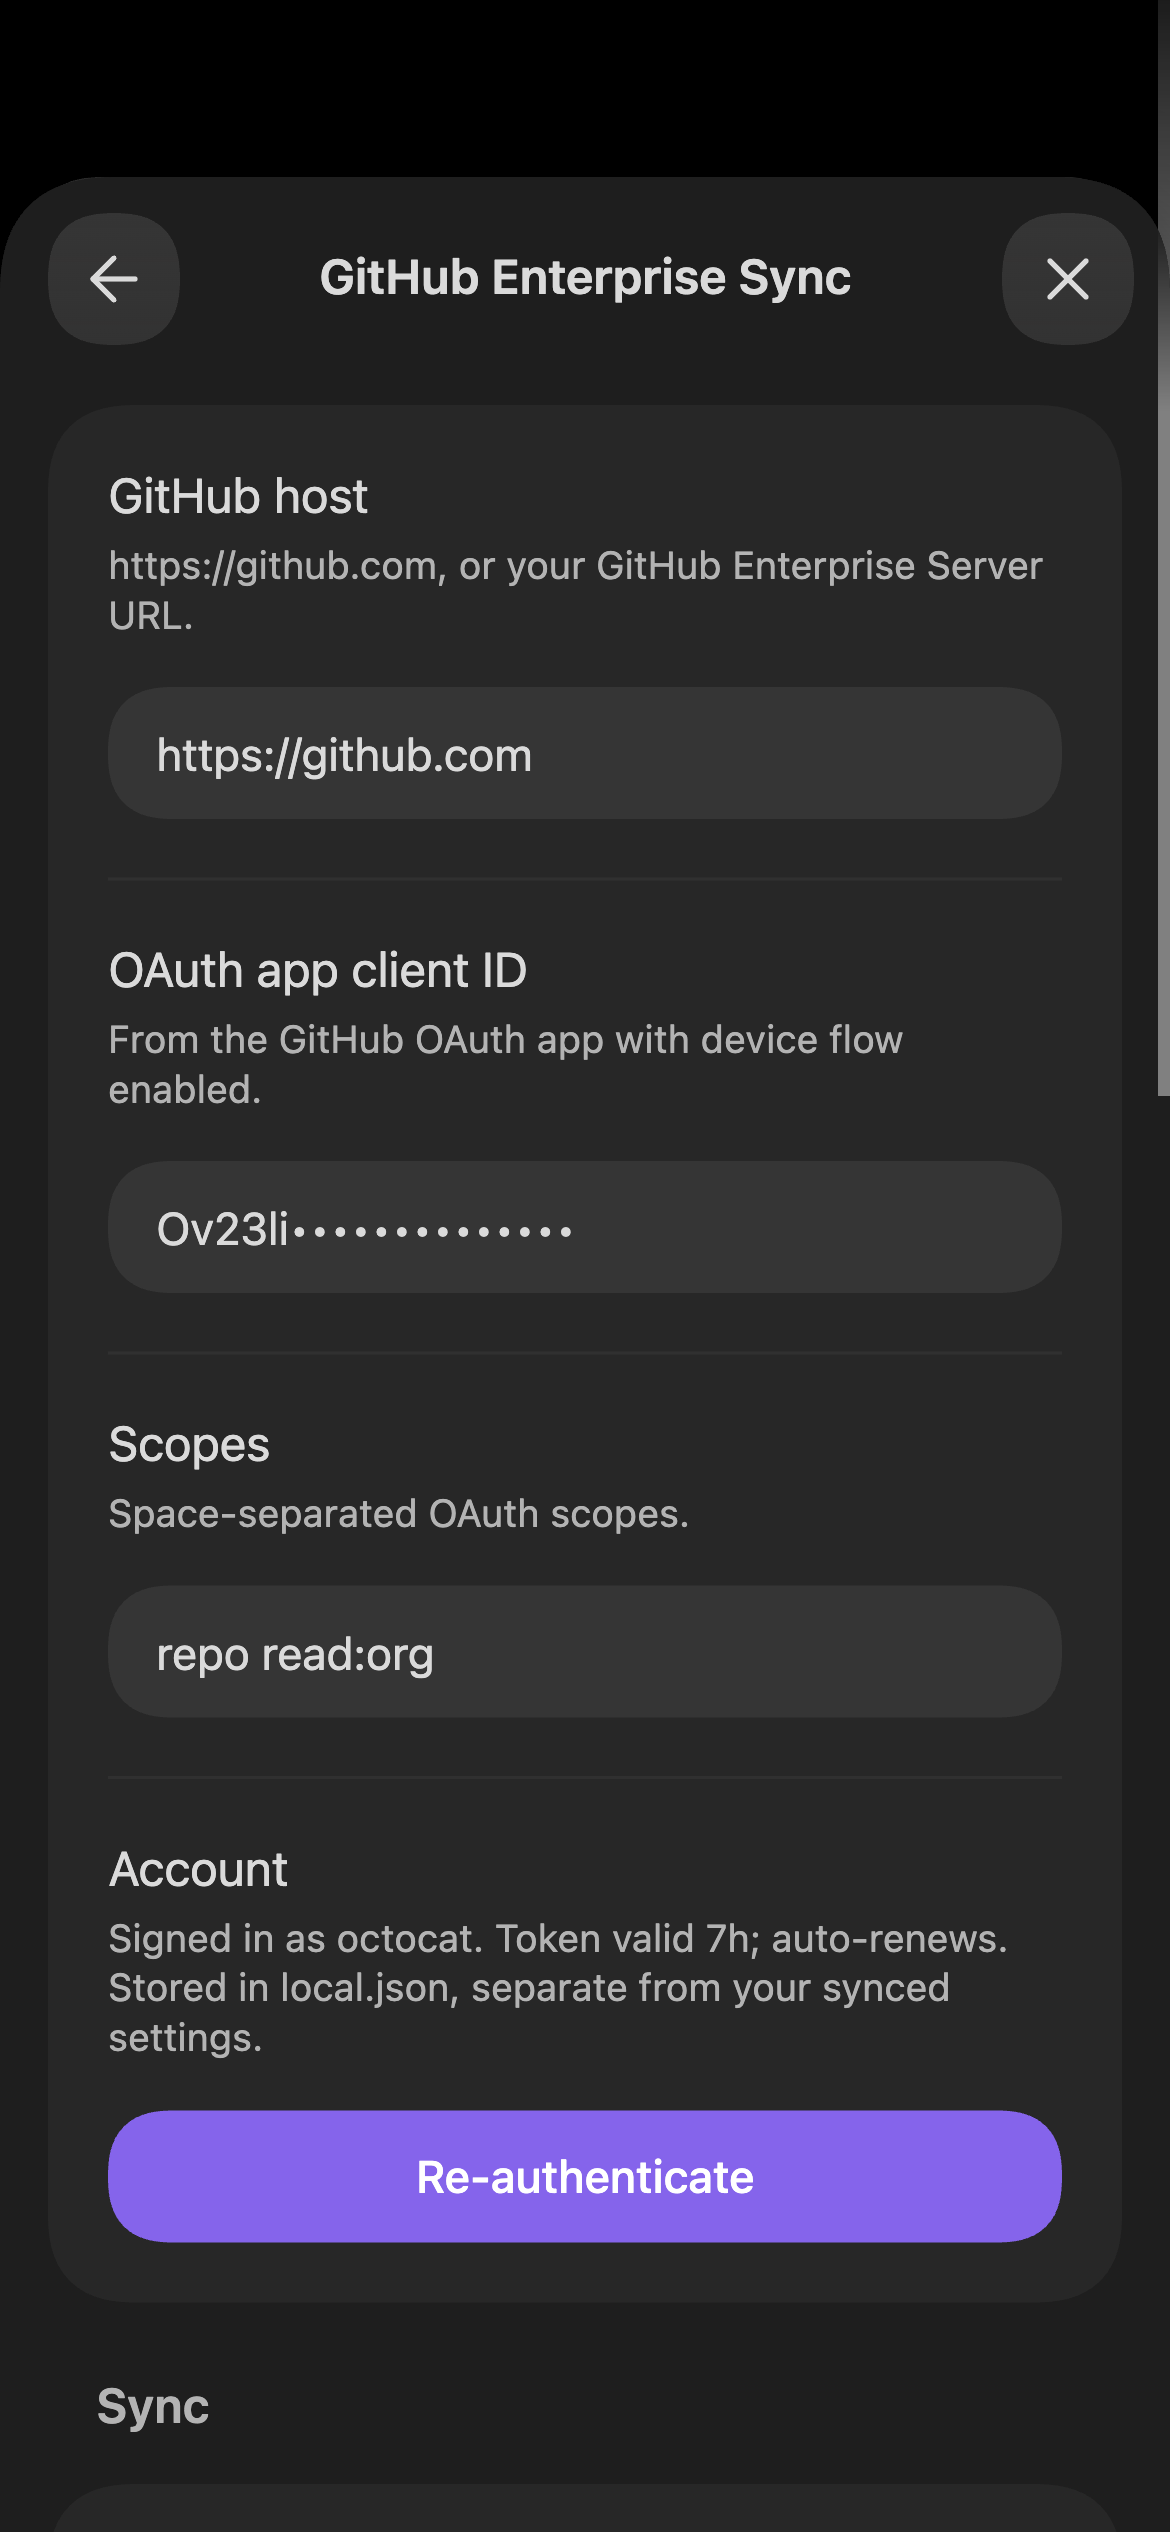
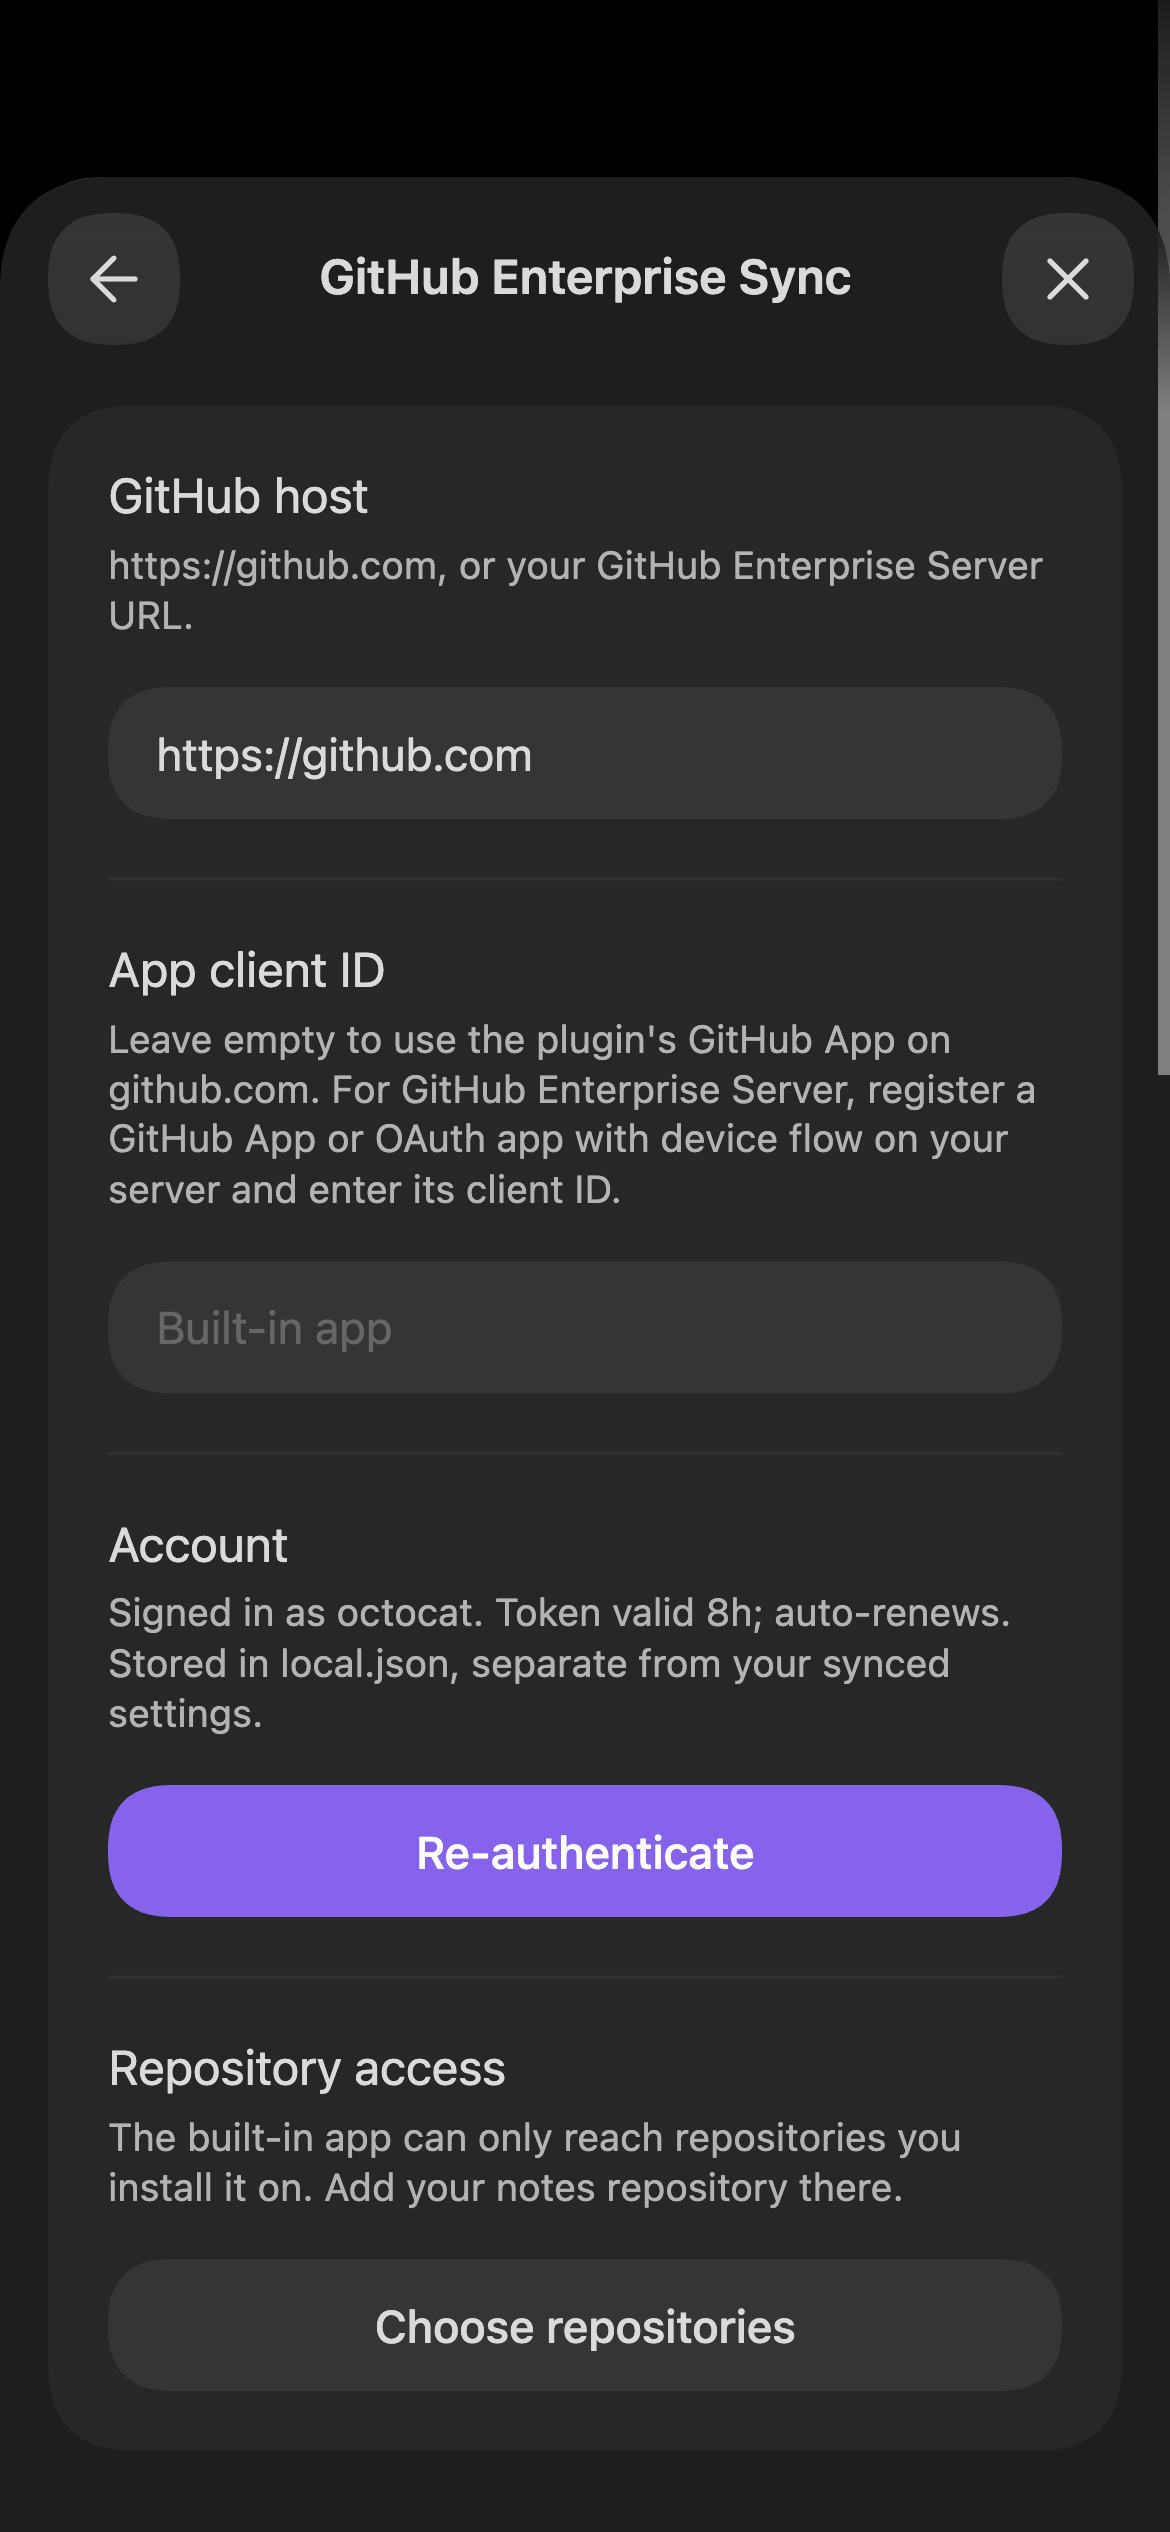
Sign in through the plugin's own GitHub App on github.com
Users on github.com no longer register an app: with no client ID set, sign-in
uses the plugin's GitHub App (Obsidian GitHub Enterprise Sync), which has
Contents read/write only and reaches only the repositories it's installed on.
The device flow needs no client secret, so shipping the client ID is safe.

- Settings: "App client ID" is optional on github.com and required on
  Enterprise Server, where a github.com app doesn't exist. Scopes only show
  for OAuth apps; a "Repository access" row links to the app's install page.
- A 404, or a 403 "not accessible by integration", from a GitHub App token
  now says the app isn't installed on the repository, with an install link
  for the built-in app, instead of a bare API error.
- The issuing client ID is stored with the tokens, so refresh keeps working
  if the setting changes later. Existing sign-ins keep their configured app.
- README setup rewritten for both cases; screenshots regenerated.

diff --git a/src/main.ts b/src/main.ts
@@ -8,9 +8,17 @@ import {
 	Setting,
 	SettingDefinitionItem,
 } from "obsidian";
-import { AccessTokenResponse, GitHubHost, hostFromWebBase, refreshAccessToken } from "./auth";
+import {
+	AccessTokenResponse,
+	DEFAULT_APP,
+	GitHubHost,
+	hostFromWebBase,
+	isGitHubApp,
+	refreshAccessToken,
+	resolveClientId,
+} from "./auth";
 import { DeviceFlowModal } from "./deviceFlowModal";
-import { GitHubClient } from "./github";
+import { GitHubClient, errorStatus } from "./github";
 import { SyncEngine, SyncReport } from "./sync";
 import { DEFAULT_LOCAL, LOCAL_FILE, LocalState, loadLocalState, saveLocalState } from "./storage";
 
@@ -166,21 +174,32 @@ export default class GitHubEnterpriseSyncPlugin extends Plugin {
 		return hostFromWebBase(this.settings.githubWebBase);
 	}
 
+	/** The app to sign in with: the configured client ID, else the built-in app on github.com. */
+	get clientId(): string {
+		return resolveClientId(this.settings.clientId, this.host);
+	}
+
 	signIn() {
-		if (!this.settings.clientId) {
-			new Notice("Set the OAuth app client ID in settings first.");
+		const clientId = this.clientId;
+		if (!clientId) {
+			new Notice(
+				"GitHub Enterprise Server needs its own app: register one with device flow on your server, then enter its client ID in settings.",
+				10000,
+			);
 			return;
 		}
 		new DeviceFlowModal(
 			this.app,
 			this.host,
-			this.settings.clientId,
-			this.settings.scope,
-			(token) => void this.onSignedIn(token),
+			clientId,
+			// GitHub Apps take their permissions from the app, not from scopes.
+			isGitHubApp(clientId) ? "" : this.settings.scope,
+			(token) => void this.onSignedIn(token, clientId),
 		).open();
 	}
 
-	private async onSignedIn(token: AccessTokenResponse) {
+	private async onSignedIn(token: AccessTokenResponse, clientId: string) {
+		this.local.clientId = clientId;
 		await this.storeToken(token);
 		// Redraw before verifying: verification hits the network, and the
 		// button should already read "Re-authenticate" by then.
@@ -216,7 +235,8 @@ export default class GitHubEnterpriseSyncPlugin extends Plugin {
 
 		if (!refreshToken) return "";
 		try {
-			const renewed = await refreshAccessToken(this.host, this.settings.clientId, refreshToken);
+			const clientId = this.local.clientId || this.clientId;
+			const renewed = await refreshAccessToken(this.host, clientId, refreshToken);
 			await this.storeToken(renewed);
 			return renewed.access_token;
 		} catch (err) {
@@ -262,10 +282,40 @@ export default class GitHubEnterpriseSyncPlugin extends Plugin {
 				`Read ${firstFile.path} — ${content.length} chars. ${entries.length} entries at ${dir || "root"}.`,
 			);
 		} catch (err) {
-			const message = err instanceof Error ? err.message : String(err);
 			console.error("[github-enterprise-sync]", err);
-			new Notice(`Verification failed: ${message}`, 10000);
+			this.notifyFailure("Verification failed", err);
 		}
+	}
+
+	/**
+	 * Report a failed request. From a GitHub App token, a 404 almost always
+	 * means the app isn't installed on the repository (GitHub hides private
+	 * repos the token can't reach), and so does a 403 "not accessible by
+	 * integration" (a public repo: readable, but not writable). Say so, with a
+	 * link when it's the built-in app.
+	 */
+	private notifyFailure(prefix: string, err: unknown) {
+		const message = err instanceof Error ? err.message : String(err);
+		const issuer = this.local.clientId || this.clientId;
+		const status = errorStatus(err);
+		const notInstalled =
+			status === 404 || (status === 403 && /not accessible by integration/i.test(message));
+		if (!notInstalled || !isGitHubApp(issuer)) {
+			new Notice(`${prefix}: ${message}`, 10000);
+			return;
+		}
+		const repo = this.settings.syncRepo || "the repository";
+		new Notice(
+			createFragment((f) => {
+				f.appendText(`${prefix}: can't see ${repo}. The app can only reach repositories it's installed on. `);
+				if (issuer === DEFAULT_APP.clientId) {
+					f.createEl("a", { text: "Choose repositories", href: DEFAULT_APP.installUrl });
+				} else {
+					f.appendText("Ask the app's owner to install it on this repository.");
+				}
+			}),
+			15000,
+		);
 	}
 
 	async loadSettings() {
@@ -350,11 +400,10 @@ export default class GitHubEnterpriseSyncPlugin extends Plugin {
 				}
 			}
 		} catch (err) {
-			const message = err instanceof Error ? err.message : String(err);
 			console.error("[github-enterprise-sync] sync failed", err);
 			// Failures are always surfaced — a silently broken sync is worse
 			// than a noisy one.
-			new Notice(`GitHub Enterprise Sync failed: ${message}`, 10000);
+			this.notifyFailure("GitHub Enterprise Sync failed", err);
 		} finally {
 			this.syncing = false;
 			this.renderStatusBar();
@@ -528,13 +577,17 @@ class GitHubEnterpriseSyncSettingTab extends PluginSettingTab {
 				},
 			},
 			{
-				name: "OAuth app client ID",
-				desc: "From the GitHub OAuth app with device flow enabled.",
-				control: { type: "text", key: "clientId", placeholder: "Iv1.xxxxxxxxxxxx" },
+				name: "App client ID",
+				desc:
+					"Leave empty to use the plugin's GitHub App on github.com. For GitHub Enterprise Server, " +
+					"register a GitHub App or OAuth app with device flow on your server and enter its client ID.",
+				aliases: ["oauth", "github app"],
+				control: { type: "text", key: "clientId", placeholder: "Built-in app" },
 			},
 			{
 				name: "Scopes",
-				desc: "Space-separated OAuth scopes.",
+				desc: "Space-separated OAuth scopes. Only OAuth apps use these.",
+				visible: () => !isGitHubApp(this.plugin.clientId),
 				control: { type: "text", key: "scope" },
 			},
 			{
@@ -544,6 +597,16 @@ class GitHubEnterpriseSyncSettingTab extends PluginSettingTab {
 					this.accountRow = setting;
 					setting.addButton((b) => b.setCta().onClick(() => this.plugin.signIn()));
 					this.renderAccount();
+				},
+			},
+			{
+				name: "Repository access",
+				desc: "The built-in app can only reach repositories you install it on. Add your notes repository there.",
+				visible: () => this.plugin.clientId === DEFAULT_APP.clientId,
+				render: (setting) => {
+					setting.addButton((b) =>
+						b.setButtonText("Choose repositories").onClick(() => window.open(DEFAULT_APP.installUrl)),
+					);
 				},
 			},
 			{
@@ -644,8 +707,9 @@ class GitHubEnterpriseSyncSettingTab extends PluginSettingTab {
 		}
 		await this.plugin.saveSettings();
 		if (key === "autoSyncEnabled" || key === "autoSyncMinutes") this.plugin.restartAutoSyncTimer();
-		// "Sync interval" is only shown while periodic sync is on.
-		if (key === "autoSyncEnabled") this.refreshDomState();
+		// Rows that depend on these: "Sync interval" on periodic sync; "Scopes"
+		// and "Repository access" on which app signs in.
+		if (key === "autoSyncEnabled" || key === "githubWebBase" || key === "clientId") this.refreshDomState();
 	}
 
 	/** Rewrite the state-driven rows, if they're on screen. */

diff --git a/src/auth.ts b/src/auth.ts
@@ -17,6 +17,38 @@ export function hostFromWebBase(webBase: string): GitHubHost {
 	};
 }
 
+/**
+ * The plugin's own GitHub App on github.com, used when no client ID is set, so
+ * github.com users don't have to register an app of their own. The device flow
+ * needs no client secret, so a client ID is public by design.
+ */
+export const DEFAULT_APP = {
+	clientId: "Iv23licEZx8RvafEllsg",
+	installUrl: "https://github.com/apps/obsidian-github-enterprise-sync/installations/new",
+};
+
+export function isGitHubDotCom(host: GitHubHost): boolean {
+	return host.apiBase === "https://api.github.com";
+}
+
+/**
+ * The client ID to sign in with: the configured one, else the built-in app on
+ * github.com. "" on GitHub Enterprise Server with nothing configured — an app
+ * registered on github.com doesn't exist there.
+ */
+export function resolveClientId(configured: string, host: GitHubHost): string {
+	return configured.trim() || (isGitHubDotCom(host) ? DEFAULT_APP.clientId : "");
+}
+
+/**
+ * GitHub App client IDs start with "Iv"; OAuth apps' with "Ov" (or are older
+ * hex IDs). The difference matters to users: a GitHub App ignores scopes and
+ * only reaches repositories it has been installed on.
+ */
+export function isGitHubApp(clientId: string): boolean {
+	return clientId.startsWith("Iv");
+}
+
 export interface DeviceCodeResponse {
 	device_code: string;
 	user_code: string;

diff --git a/src/storage.ts b/src/storage.ts
@@ -21,6 +21,12 @@ export interface LocalState {
 	accessTokenExpiresAt: number;
 	refreshToken: string;
 	refreshTokenExpiresAt: number;
+	/**
+	 * The app that issued the tokens. A refresh has to go to the same client ID,
+	 * even if the settings have changed since. "" for tokens stored before this
+	 * was recorded.
+	 */
+	clientId: string;
 	/** Vault contents as of the last successful sync. */
 	syncState: SyncState | null;
 	/**
@@ -36,6 +42,7 @@ export const DEFAULT_LOCAL: LocalState = {
 	accessTokenExpiresAt: 0,
 	refreshToken: "",
 	refreshTokenExpiresAt: 0,
+	clientId: "",
 	syncState: null,
 	deviceLabel: "",
 };

diff --git a/README.md b/README.md
@@ -37,14 +37,16 @@ finish. Any SSO session already present in that browser is reused.
 
 There is no embedded web view anywhere in this codebase.
 
-If the OAuth app has expiring user tokens enabled, the device flow returns an
+If the app issues expiring user tokens (GitHub Apps do by default), the device flow returns an
 access token valid ~8 hours plus a refresh token valid ~6 months. Every API
 call goes through `validAccessToken()`, which exchanges the refresh token when
 the access token is within five minutes of expiry. GitHub **rotates the refresh
 token on each use**, so both halves of the response are persisted together —
 dropping the new refresh token would strand the plugin at the next renewal.
 Once the refresh token itself lapses, you sign in again. With non-expiring
-tokens, `expires_in` is absent and the refresh path is simply never taken.
+tokens, `expires_in` is absent and the refresh path is simply never taken. The
+refresh always goes to the app that issued the token, so changing **App client
+ID** later doesn't break renewal of an existing sign-in.
 
 ### Incremental sync
 
@@ -141,8 +143,10 @@ configure** — github.com or your own GitHub Enterprise Server. It needs that
 connection to sign you in and to read and write the repository you sync with.
 
 - **Account required.** You need a GitHub (or GitHub Enterprise) account with
-  access to the repository, plus a GitHub OAuth app with device flow enabled
-  (see [Setup](#setup)).
+  access to the repository. On github.com, sign-in goes through the plugin's
+  GitHub App, [Obsidian GitHub Enterprise Sync](https://github.com/apps/obsidian-github-enterprise-sync),
+  which can only reach the repositories you install it on. On Enterprise Server
+  you use an app registered there (see [Setup](#setup)).
 - **What is sent.** OAuth requests to `<host>/login/device/code` and
   `<host>/login/oauth/access_token`, and GitHub REST API requests to
   `api.github.com` (or `<host>/api/v3`) that read and write the configured
@@ -158,25 +162,48 @@ plugin never sees your password.
 
 ## Setup
 
-Register a GitHub OAuth app with **"Enable Device Flow"** checked (Settings →
-Developer settings → OAuth Apps). No callback URL is needed for this flow.
+### github.com
 
-Then in Obsidian: **Settings → GitHub Enterprise Sync**
+1. In Obsidian, open **Settings → GitHub Enterprise Sync** and set
+   **Repository** to the `owner/repo` holding your notes. Leave **App client
+   ID** empty.
+2. Under **Repository access**, press **Choose repositories** and
+   [install the app](https://github.com/apps/obsidian-github-enterprise-sync/installations/new)
+   on that repository. It asks only for read and write access to file
+   contents.
+3. Press **Sign in**, copy the code, tap **Open browser**, and authorize.
+
+For repositories owned by an organization, an owner of that organization
+installs the app (or approves your request to).
+
+### GitHub Enterprise Server
+
+An app registered on github.com doesn't exist on your server, so register one
+there — once for everyone at your company is enough:
+
+1. On your server, go to **Settings → Developer settings → GitHub Apps → New
+   GitHub App** (or the same under an organization's settings).
+2. Check **Enable Device Flow**, uncheck **Webhook → Active**, and under
+   **Repository permissions** set **Contents** to **Read and write**. No
+   callback URL, client secret, or private key is needed.
+3. Install it on the repositories to sync, and copy its **Client ID**.
+
+Then set **GitHub host** to your server (`https://github.example.com`), paste
+the client ID into **App client ID**, and sign in. An OAuth app with device
+flow enabled works too; for one of those, **Scopes** (default `repo read:org`)
+controls its access.
+
+### All settings
 
 | Setting | Value |
 | --- | --- |
-| GitHub host | `https://github.com`, or `https://github.example.com` for Enterprise Server |
-| OAuth app client ID | from your OAuth app |
-| Scopes | `repo read:org` (default) |
+| GitHub host | `https://github.com`, or your Enterprise Server URL |
+| App client ID | empty for the built-in app on github.com; your app's client ID on Enterprise Server |
+| Scopes | OAuth apps only |
 | Repository | `owner/repo` to sync from |
 | Branch | empty for the repository's default branch |
 | Remote folder | sync only this subfolder of the repo; empty for the whole repo |
 | Vault folder | where files land in the vault; empty for the vault root |
-
-Press **Sign in**, copy the code, tap **Open browser**, authorize.
-
-For repositories behind SAML SSO on github.com, you may additionally need to
-authorize the OAuth app for the organization from its settings page.
 
 ### Automatic sync
 
@@ -205,8 +232,9 @@ mismatches, conflicts, and refused pushes always raise a notice.
 node scripts/device-flow-test.mjs <client_id> owner/repo [https://github.example.com]
 ```
 
-Runs the identical request sequence from a terminal — useful to confirm the
-OAuth app is configured correctly before installing the plugin.
+Runs the identical request sequence from a terminal — useful to confirm an app
+registered on Enterprise Server is configured correctly before installing the
+plugin.
 
 ## Tests
 
@@ -291,7 +319,7 @@ repository's **Settings → Secrets and variables → Actions**:
 | --- | --- | --- |
 | `E2E_TOKEN` | secret | A [fine-grained token](https://github.com/settings/personal-access-tokens/new) limited to the test repository, with **Contents: read and write** |
 | `E2E_REPO` | variable | `owner/repo` of the test repository |
-| `E2E_CLIENT_ID` | variable | The OAuth app's client ID (only used to request a device code) |
+| `E2E_CLIENT_ID` | variable | The client ID of the app that issued `E2E_TOKEN` (the plugin's GitHub App, `Iv23licEZx8RvafEllsg`, or your own) |
 
 Without `E2E_TOKEN` — including on pull requests from forks — those jobs skip
 instead of failing. Locally, the same variables override `.env.e2e`, and
